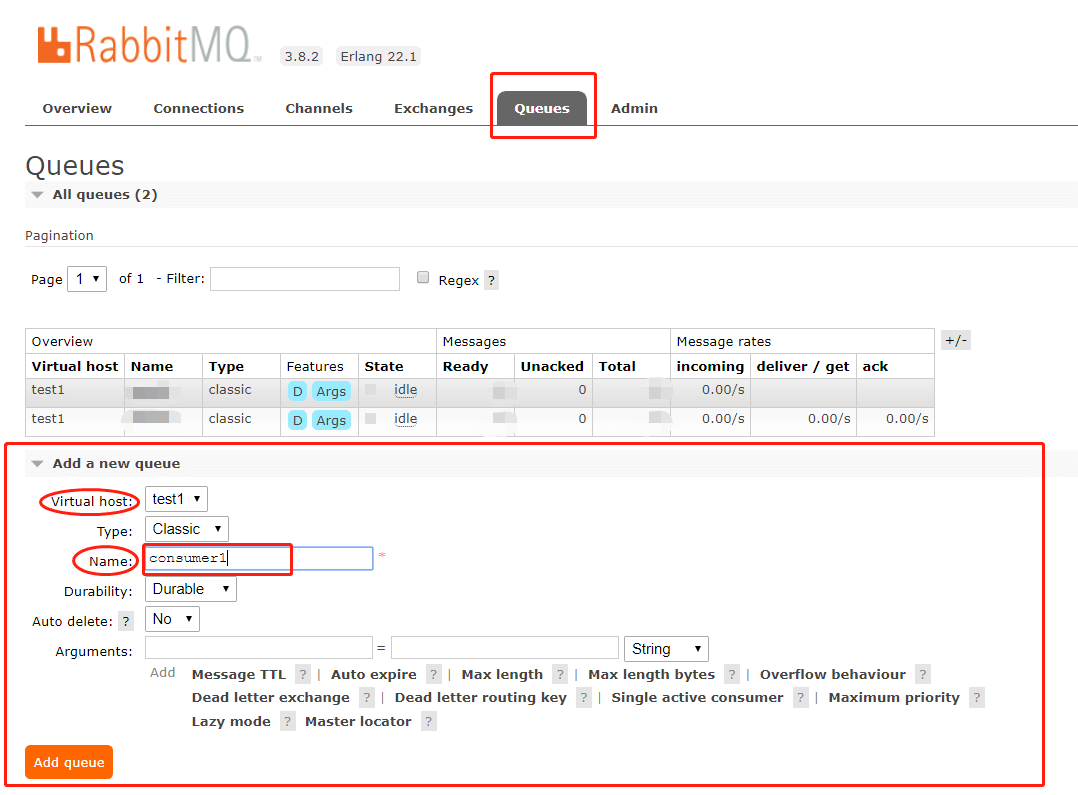
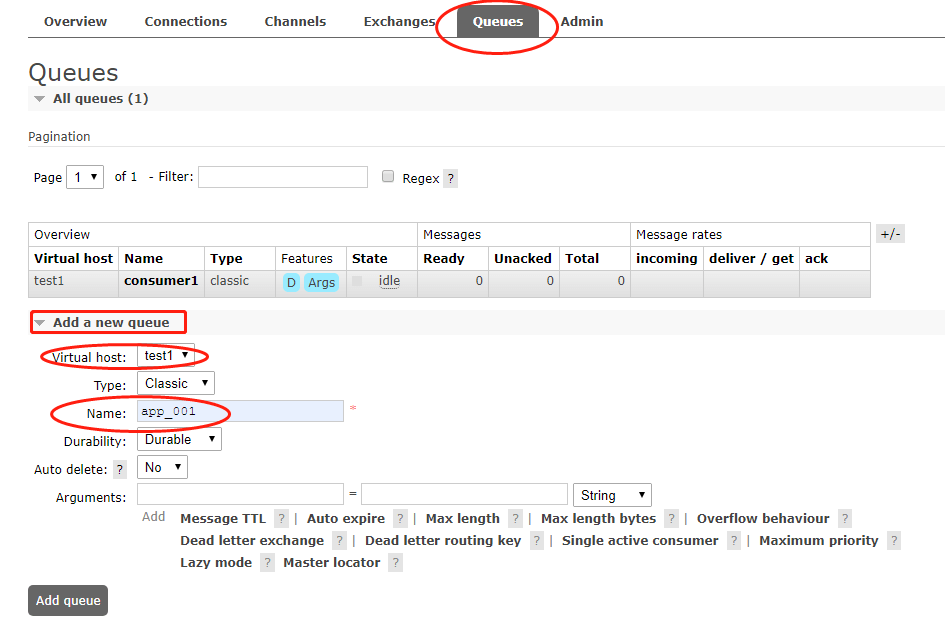
update event pics & upgrade 1.3

diff --git a/docs/WeBASE-Front/appendix.md b/docs/WeBASE-Front/appendix.md
@@ -184,13 +184,13 @@ startWaitTime=600
 
 ## 3. 使用说明
 
-### 私钥管理
+### 测试用户管理
 
 #### 3.1. 导入私钥
 
-支持txt私钥文件导入和pem私钥文件导入
+支持txt文件和pem文件导入测试用户的私钥信息
 
-导入.txt私钥格式示例：
+导入.txt私钥内容格式示例：
 
 ```
 {
@@ -198,7 +198,7 @@ startWaitTime=600
[2 lines of base64/hex data omitted]
   "userName":"111",
-  "type":0
+  "type":0  // type为0，不可修改
 }
 ```
 其中用户类型为0代表用户为WeBASE-Front的本地私钥用户，导入的私钥均为该类型；
@@ -216,7 +216,7 @@ fM/yuDBK2MRfFbfnOYVTNKyOSnmkY+xBfCR8Q86wcsQm9NZpkmFK
 
 #### 3.2. 导出私钥
 
-目前仅支持导出txt私钥
+目前仅支持导出测试用户的txt格式私钥
 
 **Java中如何使用导出的私钥**
 
@@ -284,7 +284,7 @@ public void loadPrivateKeyTest() {
 注：
 可通过RabbitMQ的命令行工具，添加管理员账户(`Administrator`)，具体可参考[rabbitmqctl文档](https://www.rabbitmq.com/rabbitmqctl.8.html)
 
-*guest用户不支持远程登录Web管理页，如需远程登录管理页面，需要通过ctl新增一个管理员用户*
+**guest用户不支持远程登录Web管理页，如需远程登录管理页面，需要通过rabbitmqctl新增一个管理员用户**
 
 #### WeBASE-Front的配置
 
@@ -314,36 +314,36 @@ spring:
 
 ##### 客户端开发流程
 
-- 申请账号：客户端用户向mq-server运维管理员申请MQ服务的账号（用户名和密码、virtual host）。
-- 创建队列与赋予权限：运维管理员创建账号，并**创建以用户名为名字的队列**，然后赋予该账户read其专属队列的权限( permission-read:queueName)。
-- 客户端连接到MQ：用户根据运维管理员提供的MQ账户名（队列名）和密码、virtual host、消息交换机名（exchangeName），将自己的区块链应用连接到相应队列中，获取消息推送。
+- 申请账号：客户端用户提供自己**客户端应用编号appId**，向mq-server运维管理员申请MQ服务的账号（可设置账户名和密码、virtual host）。
+- 创建队列与赋予权限：运维管理员创建账号后，管理员以用户提供的客户端应用的`appId`为名字，创建一个该账户专属的队列，然后赋予该账户read其专属队列的权限( permission-read中设置)。
+- 客户端连接到MQ：用户根据运维管理员提供的MQ账户名和密码、virtual host、消息交换机名（exchangeName），将自己的区块链应用连接到相应队列中，获取消息推送。
 
 下面简单展示运维管理员通过RabbitMQ的Web工具管理MQ服务：
 
-**创建用户：**
+**创建MQ账户：**
 
-![创建用户](../../images/WeBASE/front-event/add_user.png)
+![创建MQ账户](../../images/WeBASE/front-event/add_user.png)
 
-**赋予用户访问同名队列的read权限：**
-![赋予read权限](../../images/WeBASE/front-event/user_config.png)
+**赋予MQ账户访问appId队列的read权限：**
+![赋予read权限](../../images/WeBASE/front-event/set_permission.png)
 
-**创建同名队列**
+**创建以appId命名的队列**
 
-![创建同名队列](../../images/WeBASE/front-event/add_queue.png)
+![创建appId队列](../../images/WeBASE/front-event/add_queue.png)
 
 ##### 客户端订阅事件推送流程：
 
 - 客户端调用[WeBASE-Front](https://github.com/WeBankFinTech/WeBASE-Front)前置服务接口(`/event/newBlockEvent`和`event/contractEvent`)，注册事件监听；接口内容请查看[接口文档-事件通知](./interface.html#id330)
 
-用户调用注册事件接口之后，实际上WeBASE-Front将以`queueName+事件名+appId`的routingKey，将用户所拥有的的队列Queue绑定到对应的Exchange中：
+用户调用注册事件接口之后，实际上WeBASE-Front将以`appId+事件名+{randomString}`的routingKey，将用户所拥有的的队列Queue绑定到对应的Exchange中：
 
-![绑定到群组Exchange](../../images/WeBASE/front-event/after_register.png)
+![appId队列绑定到群组Exchange](../../images/WeBASE/front-event/after_register.png)
 
 - 用户在客户端以用户名密码连接到对应的virtual host，监听自己队列的消息，接收到消息后解析处理；
 
 客户端获取事件通知过程需如上进行配置，可参考[WeBASE-Event-Client](https://github.com/WeBankFinTech/WeBASE-Event-Client)的消费者客户端的代码实现（Dev分支）
 
-核心代码逻辑为：
+消费者客户端核心代码逻辑为：
 ```
 
 @RabbitListener(queues = "${spring.rabbitmq.username}")

diff --git a/docs/WeBASE-Front/upgrade.md b/docs/WeBASE-Front/upgrade.md
@@ -1,10 +1,22 @@
 # 升级说明
 
-<!-- #### v1.3.0
+#### v1.3.0
 
-- WeBASE-Front中私钥管理转由WeBASE-Sign管理，接口调用方式不变（传入用户地址`address`）；WeBASE-Front数据库中原有的私钥无需删除修改，且需要通过以下sql脚本，插入到WeBASE-Sign数据库中；
+##### 私钥管理调整
+- WeBASE-Front本地私钥仅用于本地的合约调试，不建议用于生产；因此web页面中的私钥管理转移至合约管理Tab下，改为测试用户管理；在WeBASE-Front的页面部署合约、发交易时所使用的的均为本地私钥，与WeBASE-Node-Manager私钥区分开；
 
-- WeBASE-Front的接口中`useAes`字段(私钥是否采用aes加密)将默认为`true`，且私钥由WeBASE-Sign同一加密管理； -->
+##### WeBASE-Node-Manager私钥调整
+- WeBASE-Node-Manager将通过WeBASE-Front的**`/trans/handleWithSign`接口和`/contract/deployWithSign`接口进行合约部署与交易**
+，即WeBASE-Node-Manager的私钥将由WeBASE-Sign托管（通过传入`signUserId`新建私钥和交易签名），WeBASE-Front将不保存WeBASE-Node-Manager的私钥（仅保存公钥与地址）；
+
+<!-- 
+因此用户需要通过以下操作将已存在与Front H2数据库中的私钥数据导出，并导入到WeBASE-Sign数据库中
+1. 打开WeBASE-Front H2数据库中的`KeyStoreInfo`表，通过`SELECT * FROM KEY_STORE_INFO WHERE TYPE = 2;`的SQL指令，获取所有属于WeBASE-Node-Manager的私钥；
+2. 检查WeBASE-Front的application.yml和WeBASE-Sign的application.yml中的`aesKey`字段的值是否一样，一样的话，直接新建一个webasesign的mysql database，将 -->
+
+##### API字段更新
+- WeBASE-Front的`/trans/handleWithSign`接口和`/contract/deployWithSign`接口传参修改，改为与`/trans/handle`接口和`/contract/deploy`一致，**WeBASE-Node-Manager**将通过且（传入用户地址`address`）；WeBASE-Front数据库中原有的私钥无需删除修改，且需要通过以下sql脚本，插入到WeBASE-Sign数据库中；
+- WeBASE-Front的所有接口中`useAes`字段(私钥是否采用aes加密保存)将默认为`true`，调用时不需要传入`useAes`；
 
 
 #### v1.2.3
